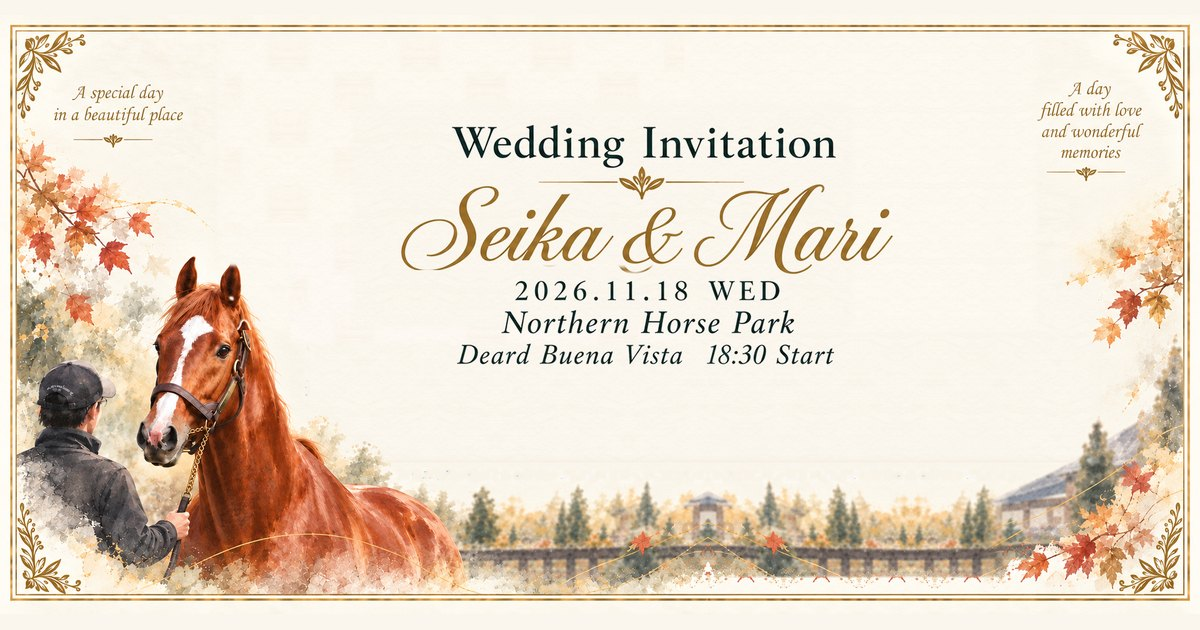
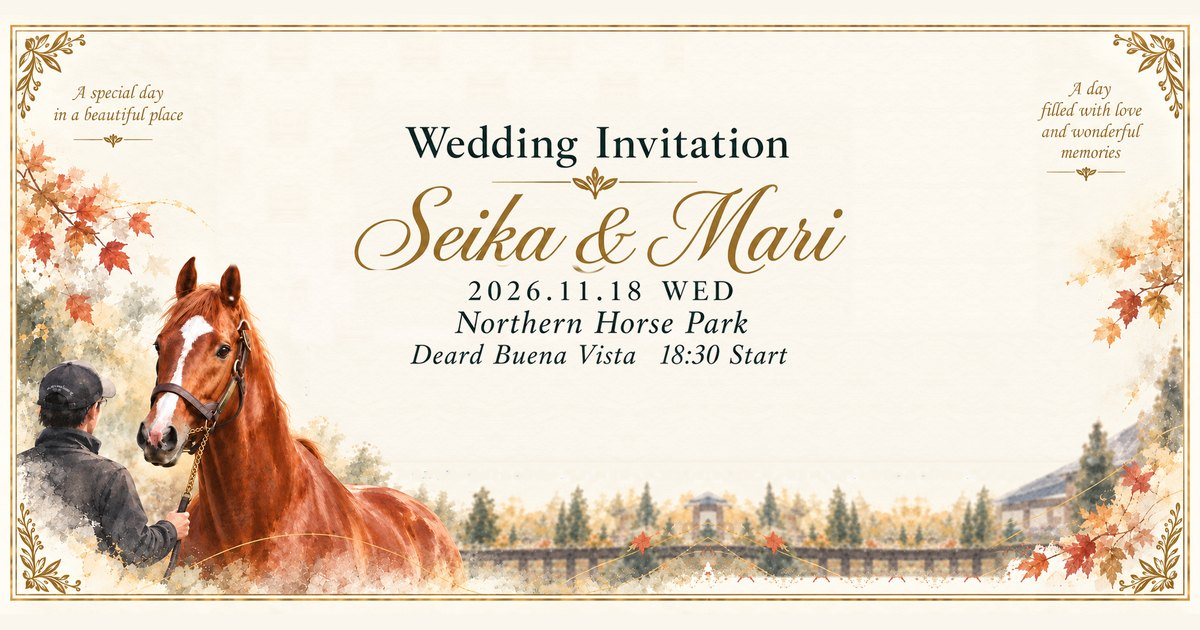
Centre the hero title on the invitation

Changed region(s): [[0.2775, 0.181, 0.74, 0.6032]]

diff --git a/index.html b/index.html
@@ -9,7 +9,7 @@
 <meta property="og:url" content="https://seika-mari-wedding.github.io/hokkaido/">
 <meta property="og:title" content="Seika &amp; Mari — お祝いの会のご案内">
 <meta property="og:description" content="2026年11月18日（水）午後6時30分 開宴／ノーザンホースパーク Deard Buena Vista">
-<meta property="og:image" content="https://seika-mari-wedding.github.io/hokkaido/ogp.jpg?v=5">
+<meta property="og:image" content="https://seika-mari-wedding.github.io/hokkaido/ogp.jpg?v=6">
 <meta property="og:image:width" content="1200">
 <meta property="og:image:height" content="630">
 <meta property="og:locale" content="ja_JP">
@@ -262,11 +262,11 @@ footer{padding:clamp(60px,9vw,96px) 0 clamp(50px,7vw,80px);text-align:center}
 <main id="main">
 <section class="hero">
   <figure class="hero-card">
-   <img class="hero-bg" src="card-bg.webp?v=5" width="2200" height="1097" fetchpriority="high"
+   <img class="hero-bg" src="card-bg.webp?v=6" width="2200" height="1097" fetchpriority="high"
     alt="Wedding Invitation Seika &amp; Mari／2026.11.18 WED／Northern Horse Park／Deard Buena Vista 18:30 Start と記された、紅葉と馬の水彩画の招待状">
-   <img class="ttl ttl-a" src="title-a.webp?v=5" alt="" aria-hidden="true" style="left:35.257%;top:18.101%;width:34.5%">
-   <img class="ttl ttl-b" src="title-b.webp?v=5" alt="" aria-hidden="true" style="left:31.38%;top:24.549%;width:43.116%">
-   <img class="ttl ttl-c" src="title-c.webp?v=5" alt="" aria-hidden="true" style="left:31.116%;top:44.069%;width:38.474%">
+   <img class="ttl ttl-a" src="title-a.webp?v=6" alt="" aria-hidden="true" style="left:31.363%;top:18.101%;width:34.5%">
+   <img class="ttl ttl-b" src="title-b.webp?v=6" alt="" aria-hidden="true" style="left:27.485%;top:24.549%;width:43.116%">
+   <img class="ttl ttl-c" src="title-c.webp?v=6" alt="" aria-hidden="true" style="left:27.221%;top:44.069%;width:38.474%">
   </figure>
   <div class="hero-under">
    <p class="hero-info"><strong>2026年11月18日（水）午後6時30分 開宴</strong>
